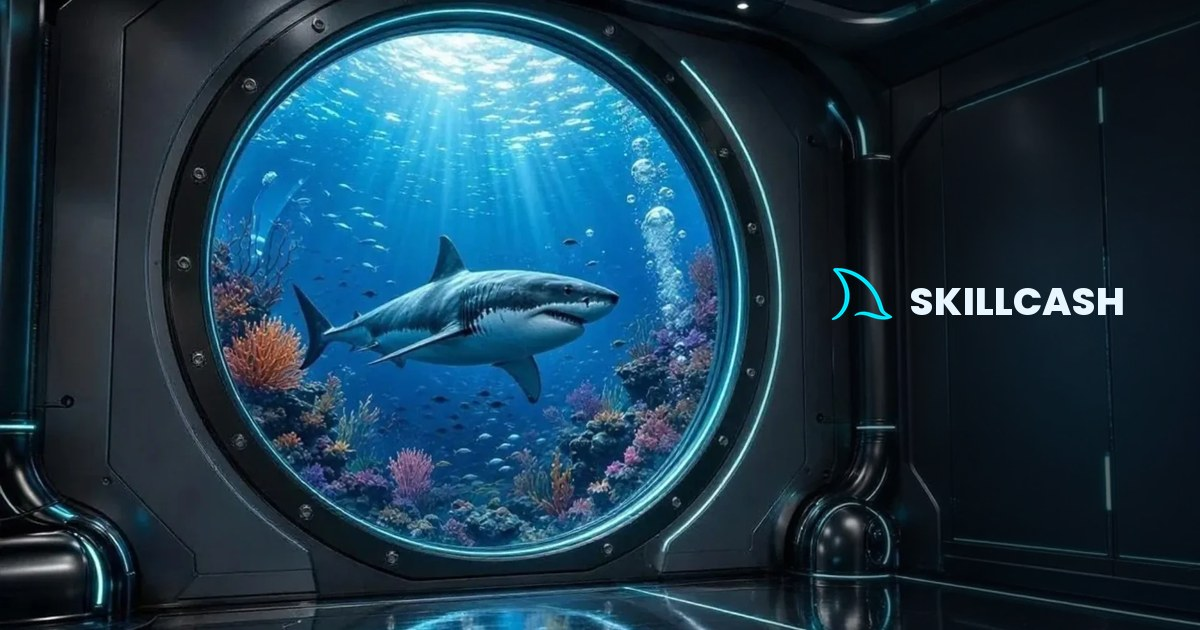
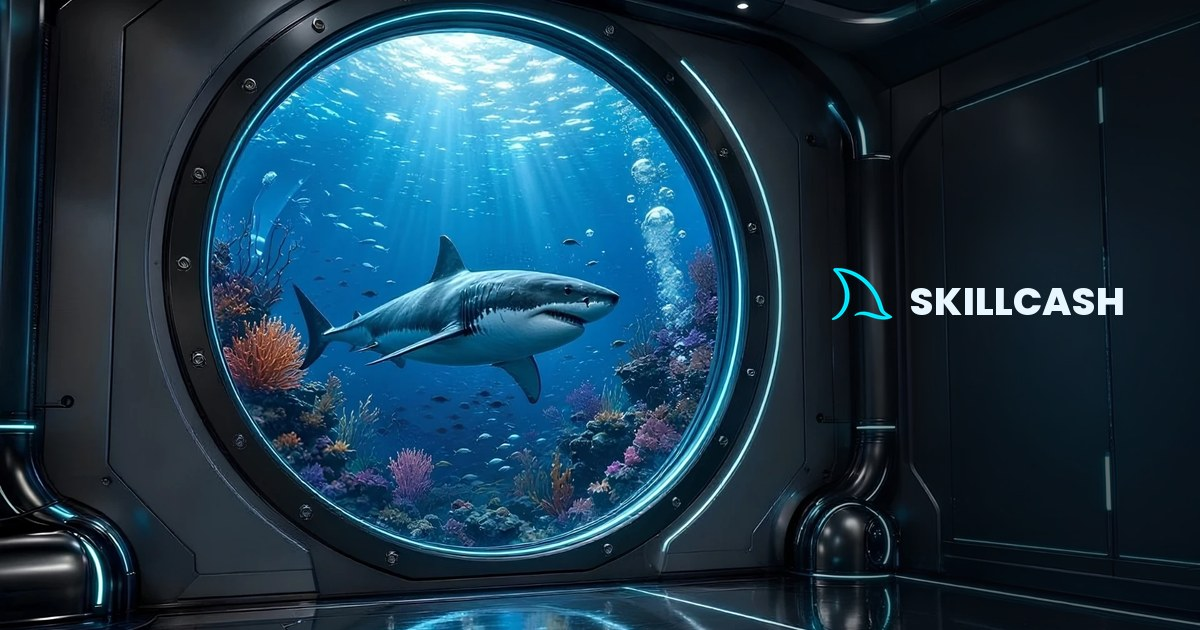
Login: imagen de la escena mejorada, separar Crear cuenta/Iniciar sesión, y que Google también muestre la inmersión al volver
- assets/scene.webp (y la og-image, recortada de ahí) reemplazadas por una
  versión más nítida que generó Juan, misma composición/encuadre.
- Pestañas "Iniciar sesión" / "Crear cuenta" en la tarjeta: cambian el
  título, el subtítulo y el texto del botón, y la diferencia ya no es solo
  visual — "Iniciar sesión" pide el código con shouldCreateUser:false
  (falla si ese correo no tiene cuenta todavía, en vez de crearla sin
  avisar) y "Crear cuenta" con shouldCreateUser:true.
- "Seguir con Google" ahora manda de vuelta a /login/ (con el ?next=
  original) en vez de directo al sitio: al volver con sesión ya activa
  (evento SIGNED_IN) se dispara el mismo éxito + zoom hacia la portilla
  antes de redirigir, así Google pasa por la misma animación que el
  correo+código.

Claude-Session: https://claude.ai/code/session_01PcGfovMmkcdTb1zx4omXad

diff --git a/login/auth.js b/login/auth.js
@@ -19,7 +19,7 @@
     if (!msg) return 'Ocurrió un error. Intenta de nuevo.';
     if (/Token has expired or is invalid/i.test(msg)) return 'El código venció o es incorrecto. Pide uno nuevo.';
     if (/Email rate limit|For security purposes/i.test(msg)) return 'Espera un momento antes de pedir otro código.';
-    if (/Signups not allowed|Email signups are disabled/i.test(msg)) return 'El registro con correo está deshabilitado en este momento.';
+    if (/Signups not allowed|Email signups are disabled/i.test(msg)) return 'No encontramos una cuenta con ese correo. Prueba "Crear cuenta".';
     if (/invalid.*email/i.test(msg)) return 'Revisa que el correo esté bien escrito.';
     return msg;
   }
@@ -31,10 +31,15 @@
     return null;
   }
 
-  function sendCode(email) {
+  // intent: 'login' (shouldCreateUser:false, falla si el correo no tiene
+  // cuenta) o 'signup' (shouldCreateUser:true, la crea si hace falta).
+  function sendCode(email, intent) {
     var blocked = requireClient();
     if (blocked) return blocked;
-    return sbClient.auth.signInWithOtp({ email: email }).then(function (res) {
+    return sbClient.auth.signInWithOtp({
+      email: email,
+      options: { shouldCreateUser: intent === 'signup' }
+    }).then(function (res) {
       if (res.error) throw new Error(translateAuthError(res.error.message));
       return { ok: true };
     });
@@ -52,7 +57,10 @@
   function loginWithGoogle() {
     var blocked = requireClient();
     if (blocked) return blocked;
-    var redirectTo = window.location.origin + NEXT_PATH;
+    // Vuelve a /login/ (no directo al sitio) para poder mostrar la misma
+    // animación de inmersión antes de mandar al sitio real; ver el
+    // onAuthStateChange('SIGNED_IN') más abajo.
+    var redirectTo = window.location.origin + window.location.pathname + '?next=' + encodeURIComponent(NEXT_PATH);
     return sbClient.auth.signInWithOAuth({
       provider: 'google',
       options: { redirectTo: redirectTo, queryParams: { prompt: 'select_account' } }
@@ -77,6 +85,30 @@
   var emailError = document.getElementById('emailError');
   var btnSendCode = document.getElementById('btnSendCode');
   var btnGoogle = document.getElementById('btnGoogle');
+  var tabLogin = document.getElementById('tabLogin');
+  var tabSignup = document.getElementById('tabSignup');
+  var emailTitle = document.getElementById('emailTitle');
+  var emailSub = document.getElementById('emailSub');
+  var btnSendCodeLabel = btnSendCode.querySelector('.btn-label');
+
+  var INTENT_COPY = {
+    login: { title: 'Entra a tu arrecife', sub: 'Sin contraseña: te enviamos un código al correo.', btn: 'Sumergirme' },
+    signup: { title: 'Únete a SkillCash', sub: 'Crea tu cuenta sin contraseña, solo con un código.', btn: 'Crear mi cuenta' }
+  };
+  var intent = 'login';
+  function setIntent(next) {
+    intent = next;
+    tabLogin.classList.toggle('active', intent === 'login');
+    tabLogin.setAttribute('aria-selected', String(intent === 'login'));
+    tabSignup.classList.toggle('active', intent === 'signup');
+    tabSignup.setAttribute('aria-selected', String(intent === 'signup'));
+    var copy = INTENT_COPY[intent];
+    emailTitle.textContent = copy.title;
+    emailSub.textContent = copy.sub;
+    btnSendCodeLabel.textContent = copy.btn;
+  }
+  tabLogin.addEventListener('click', function () { setIntent('login'); });
+  tabSignup.addEventListener('click', function () { setIntent('signup'); });
 
   var codeForm = document.getElementById('codeForm');
   var codeBoxes = Array.prototype.slice.call(document.querySelectorAll('.code-box'));
@@ -126,7 +158,7 @@
     }
 
     setLoading(btnSendCode, true);
-    sendCode(email)
+    sendCode(email, intent)
       .then(function () {
         currentEmail = email;
         codeEmailLabel.textContent = email;
@@ -230,7 +262,7 @@
   btnResend.addEventListener('click', function () {
     if (btnResend.disabled) return;
     btnResend.disabled = true;
-    sendCode(currentEmail)
+    sendCode(currentEmail, intent)
       .then(function () {
         btnResend.innerHTML = 'Reenviar código (<span id="resendTimer">60</span>s)';
         resendTimerEl = document.getElementById('resendTimer');
@@ -249,7 +281,10 @@
   });
 
   // ---------- estado 3: éxito + inmersión ----------
+  var successTriggered = false;
   function goToSuccess() {
+    if (successTriggered) return;
+    successTriggered = true;
     showState('success');
     card.style.transition = 'opacity .5s ease';
     requestAnimationFrame(function () {
@@ -285,4 +320,14 @@
     var err = new URLSearchParams(window.location.search).get('error');
     if (err) setFieldError(emailInput, emailError, err);
   })();
+
+  // "Seguir con Google" manda de vuelta aquí mismo (no directo al sitio)
+  // para que se alcance a ver la inmersión: en cuanto Supabase confirma
+  // la sesión nueva (evento SIGNED_IN, no una sesión vieja ya guardada),
+  // disparamos el mismo éxito+zoom antes de mandar al sitio real.
+  if (sbClient) {
+    sbClient.auth.onAuthStateChange(function (event, session) {
+      if (event === 'SIGNED_IN' && session) goToSuccess();
+    });
+  }
 })();

diff --git a/login/index.html b/login/index.html
@@ -91,8 +91,13 @@
 
       <!-- Estado 1: correo -->
       <section class="card-state" data-state="email" id="stateEmail">
-        <h1 class="card-title">Entra a tu arrecife</h1>
-        <p class="card-sub">Sin contraseña: te enviamos un código al correo.</p>
+        <div class="intent-tabs" role="tablist" aria-label="Iniciar sesión o crear cuenta">
+          <button type="button" class="intent-tab active" id="tabLogin" data-intent="login" role="tab" aria-selected="true">Iniciar sesión</button>
+          <button type="button" class="intent-tab" id="tabSignup" data-intent="signup" role="tab" aria-selected="false">Crear cuenta</button>
+        </div>
+
+        <h1 class="card-title" id="emailTitle">Entra a tu arrecife</h1>
+        <p class="card-sub" id="emailSub">Sin contraseña: te enviamos un código al correo.</p>
 
         <button type="button" class="btn btn-google" id="btnGoogle">
           <svg width="18" height="18" viewBox="0 0 24 24" aria-hidden="true"><path fill="#4285F4" d="M23.52 12.27c0-.85-.08-1.67-.22-2.45H12v4.64h6.46a5.52 5.52 0 0 1-2.4 3.62v3h3.88c2.27-2.09 3.58-5.17 3.58-8.81z"/><path fill="#34A853" d="M12 24c3.24 0 5.96-1.07 7.94-2.92l-3.88-3a7.15 7.15 0 0 1-10.6-3.76H1.5v3.1A11.98 11.98 0 0 0 12 24z"/><path fill="#FBBC05" d="M5.46 14.32a7.2 7.2 0 0 1 0-4.62V6.6H1.5a11.97 11.97 0 0 0 0 10.82l3.96-3.1z"/><path fill="#EA4335" d="M12 4.75c1.76 0 3.34.6 4.58 1.78l3.44-3.44A11.9 11.9 0 0 0 12 0 11.98 11.98 0 0 0 1.5 6.6l3.96 3.1A7.16 7.16 0 0 1 12 4.75z"/></svg>

diff --git a/login/styles.css b/login/styles.css
@@ -270,6 +270,34 @@ button{font-family:inherit}
   color:var(--text);
 }
 
+.intent-tabs{
+  display:flex;
+  gap:4px;
+  background:rgba(5,8,13,.6);
+  border:1px solid rgba(0,229,255,.15);
+  border-radius:10px;
+  padding:4px;
+  margin-bottom:20px;
+}
+.intent-tab{
+  flex:1;
+  background:none;
+  border:none;
+  border-radius:7px;
+  padding:9px;
+  font-family:inherit;
+  font-size:13px;
+  font-weight:600;
+  color:var(--text-muted);
+  cursor:pointer;
+  transition:background .15s ease, color .15s ease;
+}
+.intent-tab.active{
+  background:rgba(0,229,255,.14);
+  color:var(--text);
+}
+.intent-tab:not(.active):hover{ color:var(--text); }
+
 .card-title{
   margin:0 0 6px;
   font-size:24px;
